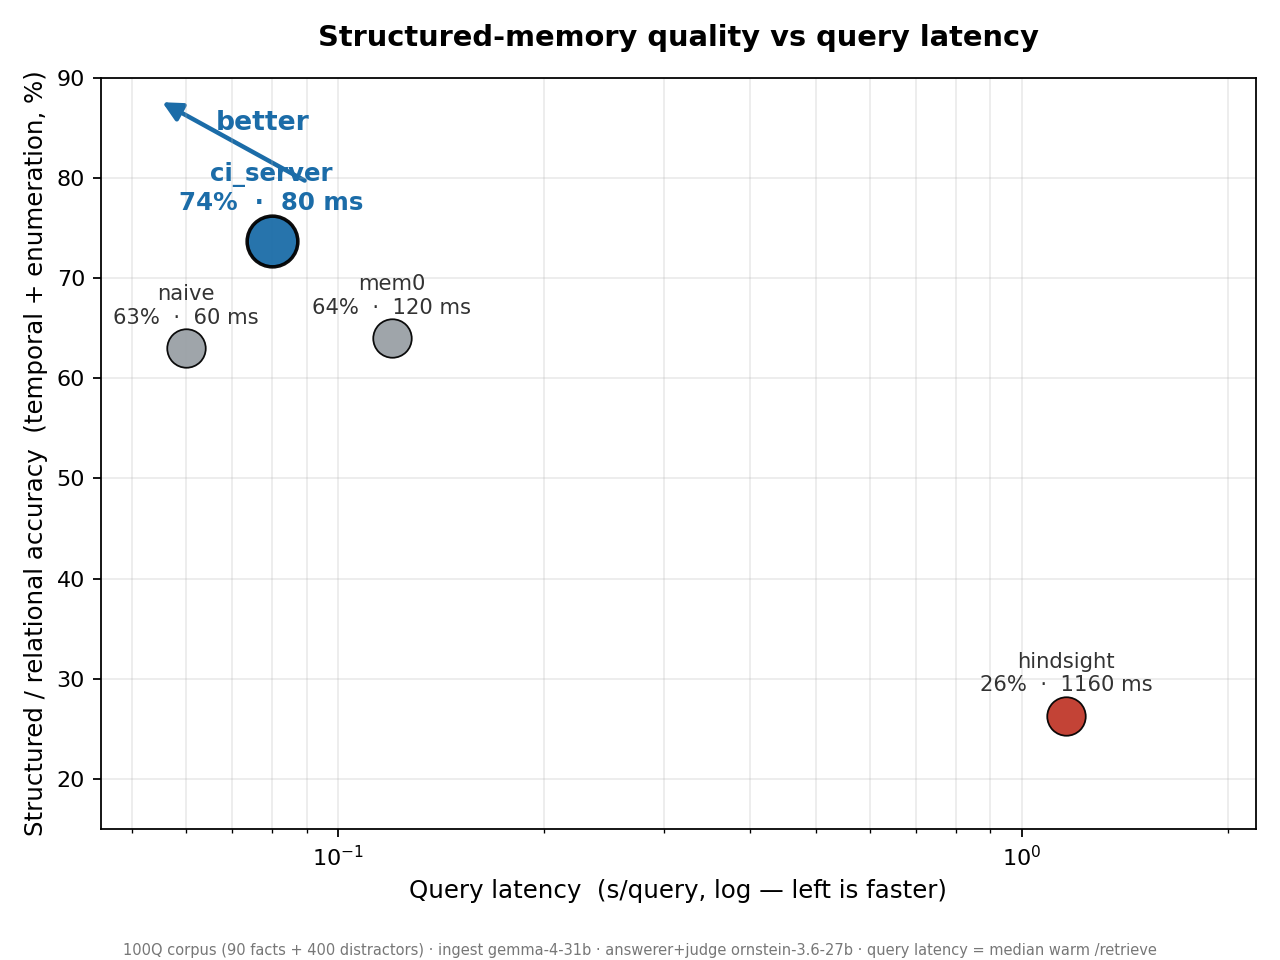
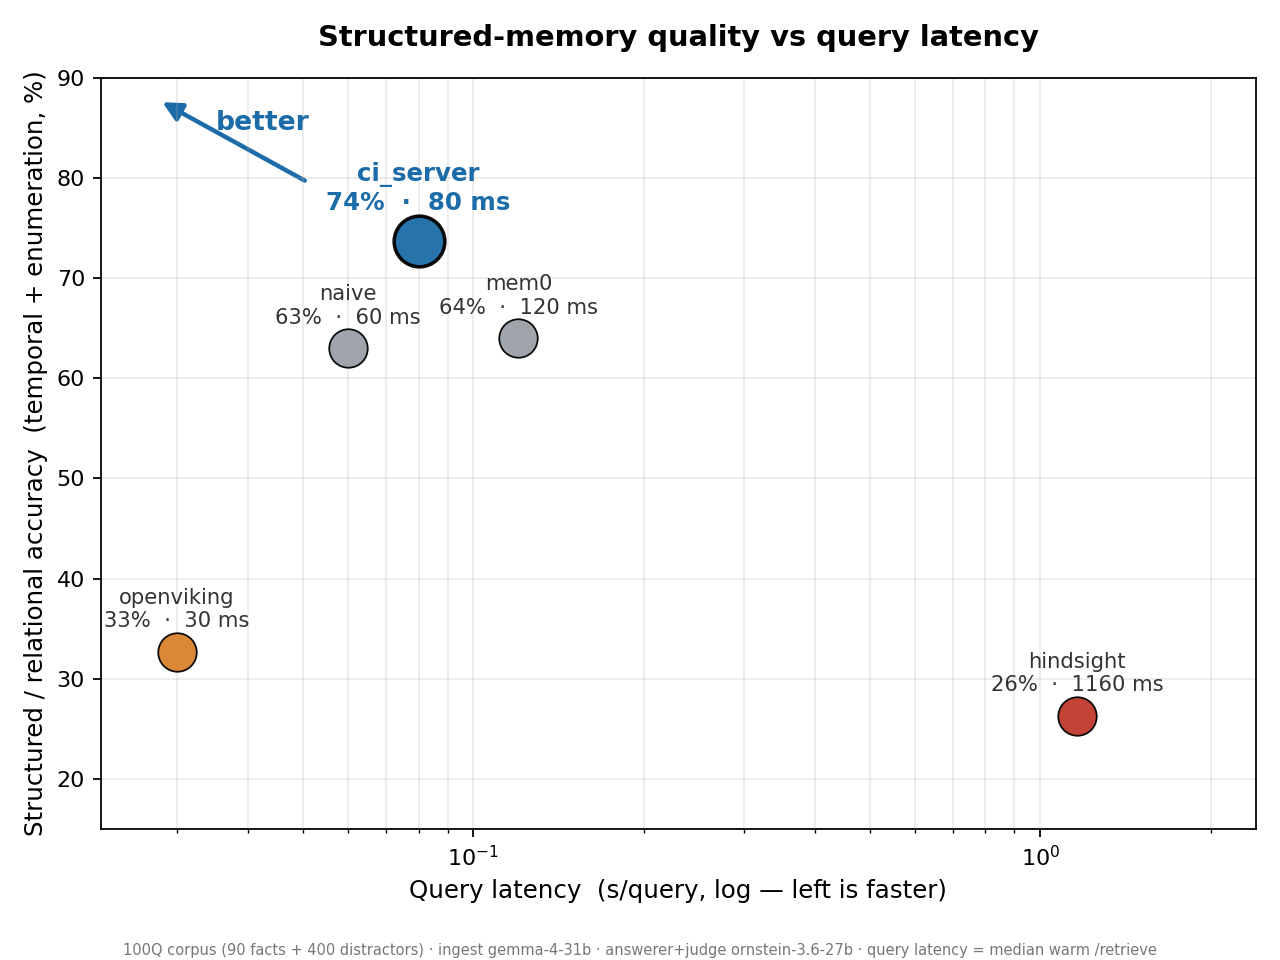
OV spike

diff --git a/scripts/benchmark/v2/make_charts.py b/scripts/benchmark/v2/make_charts.py
@@ -15,18 +15,19 @@ OUT = os.path.join(os.path.dirname(__file__), "charts")
 os.makedirs(OUT, exist_ok=True)
 
 # ---- real measured data ---------------------------------------------------- #
-SYS = ["ci_server", "mem0", "naive", "hindsight"]
-COLOR = {"ci_server": "#1b6ca8", "mem0": "#9aa0a6", "naive": "#9aa0a6", "hindsight": "#c0392b"}
-LATENCY = {"ci_server": 0.08, "mem0": 0.12, "naive": 0.06, "hindsight": 1.16}            # s/query (median warm)
-STRUCT_Q = {"ci_server": 73.7, "mem0": 64.0, "naive": 63.0, "hindsight": 26.3}           # (temporal20+enum10)/30 %
-COMPLETE = {"ci_server": 73.0, "mem0": 70.8, "naive": 65.4, "hindsight": 27.6}           # struct storage /37 %
+SYS = ["ci_server", "mem0", "naive", "hindsight", "openviking"]
+COLOR = {"ci_server": "#1b6ca8", "mem0": "#9aa0a6", "naive": "#9aa0a6", "hindsight": "#c0392b",
+         "openviking": "#d9822b"}
+LATENCY = {"ci_server": 0.08, "mem0": 0.12, "naive": 0.06, "hindsight": 1.16, "openviking": 0.03}   # s/query (median warm)
+STRUCT_Q = {"ci_server": 73.7, "mem0": 64.0, "naive": 63.0, "hindsight": 26.3, "openviking": 32.7}  # (temporal20+enum10)/30 %
+COMPLETE = {"ci_server": 73.0, "mem0": 70.8, "naive": 65.4, "hindsight": 27.6, "openviking": 38.9}  # struct storage /37 %
 
-CAP = {  # radar axes, all as %
-    "Temporal\n(current vs past)":      {"ci_server": 75, "mem0": 65, "naive": 70, "hindsight": 25},
-    "Enumeration\n(complete sets)":     {"ci_server": 71, "mem0": 62, "naive": 49, "hindsight": 29},
-    "Retrieval\ncompleteness":          {"ci_server": 73, "mem0": 71, "naive": 65, "hindsight": 28},
-    "Decisiveness\n(present facts)":     {"ci_server": 100, "mem0": 57, "naive": 71, "hindsight": 57},
-    "Query speed":                      {"ci_server": 75, "mem0": 50, "naive": 100, "hindsight": 5},
+CAP = {  # radar axes, all as %; Query speed = (fastest latency / latency) * 100  (openviking fastest)
+    "Temporal\n(current vs past)":      {"ci_server": 75, "mem0": 65, "naive": 70, "hindsight": 25, "openviking": 35},
+    "Enumeration\n(complete sets)":     {"ci_server": 71, "mem0": 62, "naive": 49, "hindsight": 29, "openviking": 28},
+    "Retrieval\ncompleteness":          {"ci_server": 73, "mem0": 71, "naive": 65, "hindsight": 28, "openviking": 39},
+    "Decisiveness\n(present facts)":     {"ci_server": 100, "mem0": 57, "naive": 71, "hindsight": 57, "openviking": 43},
+    "Query speed":                      {"ci_server": 38, "mem0": 25, "naive": 50, "hindsight": 3, "openviking": 100},
 }
 
 FOOT = ("100Q corpus (90 facts + 400 distractors) · ingest gemma-4-31b · answerer+judge ornstein-3.6-27b · "
@@ -48,7 +49,7 @@ def _scatter(yvals, ylabel, title, fname, annotate_better=True):
     ax.set_xscale("log")
     ax.set_xlabel("Query latency  (s/query, log — left is faster)", fontsize=11)
     ax.set_ylabel(ylabel, fontsize=11)
-    ax.set_xlim(0.045, 2.2)   # small latency (fast) on the LEFT
+    ax.set_xlim(0.022, 2.4)   # small latency (fast) on the LEFT (incl. openviking ~30ms)
     ax.set_ylim(15, 90)
     ax.grid(True, which="both", alpha=0.25)
     ax.set_title(title, fontsize=13, fontweight="bold", pad=14)
@@ -69,7 +70,7 @@ def chart_radar():
     N = len(axes)
     ang = [n / N * 2 * math.pi for n in range(N)] + [0.0]
     fig, ax = plt.subplots(figsize=(12, 10.5), subplot_kw=dict(polar=True))
-    order = ["hindsight", "naive", "mem0", "ci_server"]  # ci_server last = on top
+    order = ["hindsight", "openviking", "naive", "mem0", "ci_server"]  # ci_server last = on top
     for s in order:
         vals = [CAP[a][s] for a in axes] + [CAP[axes[0]][s]]
         big = s == "ci_server"
@@ -93,9 +94,9 @@ def chart_radar():
 
 def chart_concurrency():
     fig, ax = plt.subplots(figsize=(8, 5))
-    order = ["naive", "ci_server", "mem0", "hindsight"]
+    order = ["openviking", "naive", "ci_server", "mem0", "hindsight"]
     lat = [LATENCY[s] * 1000 for s in order]
-    safe = {"naive": True, "ci_server": True, "mem0": True, "hindsight": False}
+    safe = {"naive": True, "ci_server": True, "mem0": True, "hindsight": False, "openviking": True}
     bars = ax.bar(order, lat, color=["#2e8b57" if safe[s] else "#c0392b" for s in order],
                   edgecolor="black", linewidth=0.8)
     ax.set_yscale("log")

diff --git a/scripts/benchmark/v2/app/backends.py b/scripts/benchmark/v2/app/backends.py
@@ -271,6 +271,81 @@ class CIServerBackend:
         return [ln for ln in block.splitlines() if ln and not ln.startswith("#")]
 
 
+# --------------------------------------------------------------------------- #
+# OpenViking — volcengine "context database". Extraction-based, like mem0/
+# hindsight: messages are added to a session, then `extract` runs the VLM
+# (gemma-31b) to distill them into typed entity memories; `find` does semantic
+# retrieval and returns the memory content in each hit's `abstract`.
+# Talks to a host-run openviking-server (REST) configured for local models
+# (.203 gemma-31b VLM + nomic embeddings). Data dir is wiped out-of-band before
+# the run (see orchestrator.openviking_wipe), so reset() just opens a session.
+# --------------------------------------------------------------------------- #
+
+class OpenVikingBackend:
+    name = "OpenViking (context DB)"
+    EXTRACT_EVERY = 25  # extract+commit every N messages so the VLM context stays small
+
+    def __init__(self) -> None:
+        self._base = os.environ.get("OPENVIKING_URL", "http://host.docker.internal:1933").rstrip("/")
+        self._key = os.environ.get("OPENVIKING_API_KEY", "benchkey")
+        self._sid: str | None = None
+        self._pending = 0
+
+    def _post(self, path: str, payload: dict, timeout: float = 300.0) -> dict:
+        req = urllib.request.Request(f"{self._base}{path}", data=json.dumps(payload).encode(), method="POST")
+        req.add_header("Content-Type", "application/json")
+        req.add_header("x-api-key", self._key)
+        req.add_header("X-OpenViking-Account", "default")
+        req.add_header("X-OpenViking-User", "default")
+        with urllib.request.urlopen(req, timeout=timeout) as r:
+            body = r.read().decode("utf-8", "replace")
+        return json.loads(body) if body else {}
+
+    def reset(self) -> None:
+        # Clean slate comes from wiping the server's data dir out-of-band; here we
+        # just open a fresh session to accumulate this run's messages.
+        r = self._post("/api/v1/sessions", {})
+        self._sid = (r.get("result") or {}).get("session_id") or r.get("session_id")
+        self._pending = 0
+
+    def _extract_commit(self) -> None:
+        if not self._sid:
+            return
+        try:
+            self._post(f"/api/v1/sessions/{self._sid}/extract", {}, timeout=600)
+            # clear processed messages so the next extract sees only new ones
+            self._post(f"/api/v1/sessions/{self._sid}/commit", {"keep_recent_count": 0}, timeout=180)
+        except Exception:  # noqa: BLE001 — extraction is best-effort per batch
+            pass
+        self._pending = 0
+
+    def ingest(self, text: str, session_id: str) -> None:
+        if not self._sid:
+            self.reset()
+        self._post(f"/api/v1/sessions/{self._sid}/messages", {"role": "user", "content": text})
+        self._pending += 1
+        if self._pending >= self.EXTRACT_EVERY:
+            self._extract_commit()
+
+    def flush(self) -> None:
+        if self._sid and self._pending > 0:
+            self._extract_commit()
+
+    def retrieve(self, query: str) -> list[str]:
+        r = self._post("/api/v1/search/find", {"query": query, "limit": TOP_K}, timeout=120)
+        res = r.get("result") or {}
+        out: list[str] = []
+        for m in (res.get("memories") or [])[:TOP_K]:
+            uri = m.get("uri", "")
+            # skip structural scope markers (…/.abstract.md, …/.overview.md)
+            if uri.endswith(".abstract.md") or uri.endswith(".overview.md"):
+                continue
+            t = (m.get("abstract") or m.get("overview") or "").strip()
+            if t:
+                out.append(t)
+        return out
+
+
 def make_backend():
     system = os.environ.get("SYSTEM", "naive").lower()
     return {
@@ -278,4 +353,5 @@ def make_backend():
         "mem0": Mem0Backend,
         "hindsight": HindsightBackend,
         "ci_server": CIServerBackend,
+        "openviking": OpenVikingBackend,
     }[system]()

diff --git a/scripts/benchmark/v2/report_v2_100q.md b/scripts/benchmark/v2/report_v2_100q.md
@@ -9,6 +9,7 @@
 | naive | **79/100** | 78/100 | 28/34 | 22/22 | 15/22 | 14/22 |
 | mem0 | **78/100** | 79/100 | 24/34 | 21/22 | 19/22 | 14/22 |
 | hindsight | **25/100** | 21/100 | 7/34 | 9/22 | 4/22 | 5/22 |
+| openviking | **47/100** | 56/100 | 18/34 | 6/22 | 15/22 | 8/22 |
 | ci_server | **75/100** | 78/100 | 26/34 | 19/22 | 12/22 | 18/22 |
 
 > Setup: 90 canonical facts + 400 distractors (490 msgs, top-10 ≈ 2% coverage).

diff --git a/scripts/benchmark/v2/report_ov_100q.md b/scripts/benchmark/v2/report_ov_100q.md
@@ -1,0 +1,9 @@
+# Memory Benchmark v2 — Max Turnquist
+
+> 100 questions · containerized · retrieval-augmented answerer · LLM judge
+
+## Scores
+
+| System | Answer | Storage | flat-recall | relational | multi-hop | temporal-update |
+|---|---|---|---|---|---|---|
+| openviking | **47.0/100** | 56.0/100 | 18.0/34 | 6.0/22 | 15.0/22 | 8.0/22 |

diff --git a/scripts/benchmark/v2/report_ov_struct.md b/scripts/benchmark/v2/report_ov_struct.md
@@ -1,0 +1,9 @@
+# Memory Benchmark v2 — Max Turnquist
+
+> 37 questions · containerized · retrieval-augmented answerer · LLM judge
+
+## Scores
+
+| System | Answer | Storage | temporal-update | enumeration | aggregation |
+|---|---|---|---|---|---|
+| openviking | **12.8/37** | 14.4/37 | 7.0/20 | 2.8/10 | 3.0/7 |

diff --git a/scripts/benchmark/v2/report_ov_absence.md b/scripts/benchmark/v2/report_ov_absence.md
@@ -1,0 +1,9 @@
+# Memory Benchmark v2 — Max Turnquist
+
+> 23 questions · containerized · retrieval-augmented answerer · LLM judge
+
+## Scores
+
+| System | Answer | Storage | absence | presence-control |
+|---|---|---|---|---|
+| openviking | **15.0/23** | 15.0/23 | 12.0/16 | 3.0/7 |

diff --git a/scripts/benchmark/v2/report_v2_struct.md b/scripts/benchmark/v2/report_v2_struct.md
@@ -14,6 +14,7 @@
 | mem0 | **25.2** | 26.2 | 13.0 | 6.2 | **6.0** |
 | ci_server | 24.1 | **27.0** | **15.0** | **7.1** | 2.0 |
 | hindsight | 9.9 | 10.2 | 5.0 | 2.9 | 2.0 |
+| openviking | 12.8 | 14.4 | 7.0 | 2.8 | 3.0 |
 
 ## Read
 
